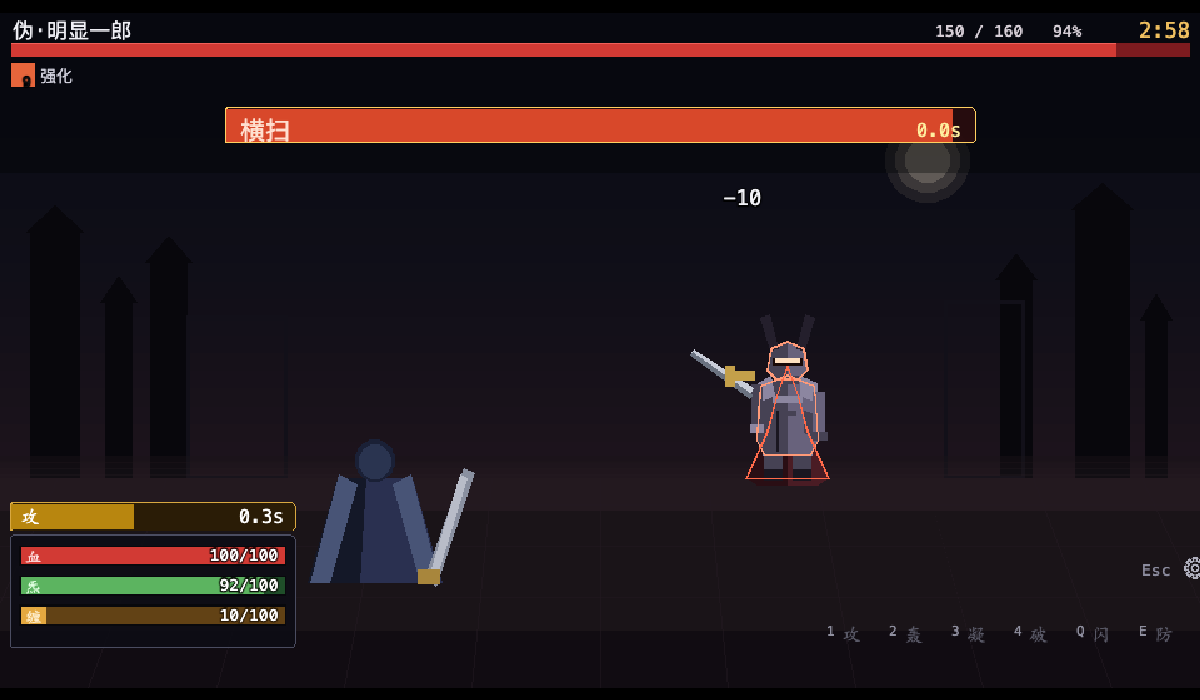
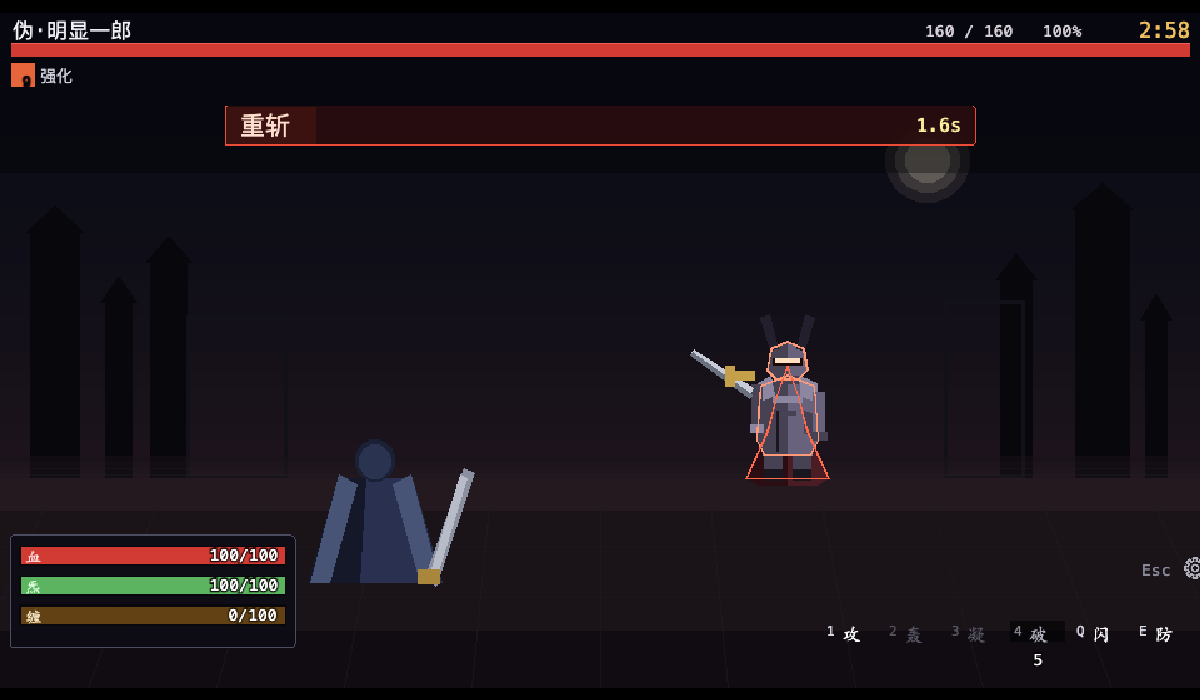
fix: 「闪」恢复打断自己的读条 + 1 秒冷却；修技能 CD 时按键无反馈
【1. 「闪」恢复打断自己的读条（需求）】
  我上两轮给它开了豁免（理由："瞬发自保不该有双重代价"），
  但需求要的是它**必须**打断 —— 读条中按闪避 = 放弃这次输出
  换取生存，这个取舍本身就是玩法。

  代价确实大（一次「攻」≈10 伤 + 30 炁），所以按需求给「闪」加了
  **1 秒冷却**：保留取舍，又不让连按把炁浪费掉。

  冷却值的演进记在 content.ts 里：0 → 1.5s → 0 → **1s**。
  1.5s 时 Boss 每 1.5-2.2 秒一招，闪避总是差一点赶不上（实测只减
  6.5% 伤害，等于技能不存在）；0 时又会因为打断读条而"越闪越亏"。

【2. 技能 CD 时按键那一侧没有反馈（真 bug）】
  `s.key` 的颜色**只在构造时设了一次**（`0x9090a0`），
  之后从没更新过 —— 所以技能冷却时，技能字变灰了，
  但按键提示毫无变化。

  现在键位提示跟技能字用同一套明暗（实测的三档）：
    可用   → 字 #ffffff / 键 #d8d8e4
    冷却中 → 字 #b0b0be / 键 #8a8a98
    不可用 → 字 #5a5a68 / 键 #55555f

【平衡复核】恢复打断 + 加 1s CD 之后目标仍成立：
  不闪避：胜，剩 8 血      会闪避：胜，剩 60 血

468 测试 + lint + typecheck + build + CDP 端到端全过。

diff --git a/tests/golden/encounter.test.ts b/tests/golden/encounter.test.ts
@@ -515,30 +515,35 @@ describe('读条与打断（公共冷却已删除，节奏改由读条表达）'
     expect(engine.snapshot.combatants[0]!.casts[0]!.skillId).toBe('attack');
   });
 
-  it('自保型瞬发（闪）**不打断**自己的读条 —— 否则闪避是双重代价', () => {
+  it('「闪」**会**打断自己的读条 —— 这是"放弃一次输出换生存"的取舍', () => {
     /**
-     * 需求/设计：闪避是"随时可用的应对手段"，代价已经写在 30 炁上。
-     * 如果它还会打断自己在读的「攻」，就等于**用一次输出换一次免伤**，
-     * 算下来反而更亏 —— 实测表现为"按闪避比不闪还差"。
+     * 需求明确：闪避应该打断自己的「攻」。
      *
-     * 修掉之后：纯进攻剩 5 血 → 闪避一次剩 38 血，容错才成立。
+     * 我一度给它开了豁免（理由："瞬发自保不该有双重代价"），
+     * 但需求要的是它**必须**打断 —— 读条中按闪避 = 放弃这次输出
+     * 换取生存，这个取舍本身就是玩法。
      *
-     * 注意「破」是**例外**：它的整个意义就是打断读条，
-     * 所以它仍然会打断（包括自己正在读的条）。
+     * 代价确实很大（一次「攻」≈10 伤 + 30 炁），所以给「闪」
+     * 加了 1 秒冷却，避免连按把炁浪费掉。
      */
     const engine = makeEngine();
     engine.tick([{ type: 'useSkill', skillId: 'attack', atTick: 0 }]);
     engine.drainEvents();
-    const castBefore = engine.snapshot.combatants[0]!.casts[0]!.skillId;
+    expect(engine.snapshot.combatants[0]!.casts.length).toBe(1);
 
     engine.tick([{ type: 'useSkill', skillId: 'dodge', atTick: 1 }]);
     const events = engine.drainEvents();
 
-    // 无敌挂上了
+    // 读条被打断
+    expect(events.some((e) => e.kind === 'castInterrupted')).toBe(true);
+    expect(engine.snapshot.combatants[0]!.casts.length).toBe(0);
+    // 无敌仍然挂上了 —— 打断换来的是生存
     expect(events.some((e) => e.kind === 'buffApplied' && e.buffId === 'dodge-iframe')).toBe(true);
-    // 但「攻」的读条**没有**被打断
-    expect(events.some((e) => e.kind === 'castInterrupted')).toBe(false);
-    expect(engine.snapshot.combatants[0]!.casts[0]?.skillId).toBe(castBefore);
+  });
+
+  it('「闪」有 1 秒冷却（保留取舍，但不让连按浪费炁）', () => {
+    const dodge = registry.skills.get('dodge')!;
+    expect(dodge.cooldown).toBe(1000);
   });
 
   it('「破」仍然会打断自己的读条 —— 它的意义就是打断', () => {

diff --git a/src/core/combat/battleState.ts b/src/core/combat/battleState.ts
@@ -788,26 +788,16 @@ export class BattleEngine {
      * 先 `castInterrupted`、再 `skillRejected`。
      */
     /**
-     * ⚠ **自保型瞬发不打断自己的读条**（「闪」）。
+     * **瞬发技能都会打断自己的读条** —— 包括「闪」（需求明确）。
      *
-     * 理由：闪避是"随时可用的应对手段"，代价已经写在 30 炁上。
-     * 如果它还会打断自己在读的「攻」，就变成**双重代价** ——
-     * 实测表现为"按闪避反而输得更惨"：省下的 24-34 点伤害
-     * 抵不过损失的那一次「攻」。修掉之后闪避才真正是"容错"
-     * （纯进攻剩 5 血 → 闪一次变 38 血）。
+     * 我一度给「闪」开了豁免（"瞬发自保不该有双重代价"），
+     * 但需求要的是它**必须**打断：读条中按闪避 = 放弃这次输出
+     * 换取生存，这个取舍本身就是玩法。
      *
-     * ⚠ **但「破」不能豁免**：它的整个意义就是打断读条
-     * （包括自己在读的条 —— 那是"用一次输出换一次打断"的取舍）。
-     * 我第一版用 `invulnerable` 判定时顺手把它也排除了，
-     * 结果"瞬发技能能打断读条"这条直接失效。
-     *
-     * 所以豁免条件是**两个**都满足：瞬发 + 自保 buff。
+     * ⚠ 代价确实很大（一次「攻」≈10 伤 + 30 炁），所以给「闪」
+     * 加了 **1 秒冷却** —— 既保留"要打断"的取舍，又避免连按浪费。
      */
-    const isSelfProtection = skill.abilities.some(
-      (a) => a.kind === 'grant' && a.buff.flags?.invulnerable === true,
-    );
-    const kind = skill.tags?.includes('interrupt') ? 'interrupt' : 'other';
-    const isDefensiveReaction = isSelfProtection && kind !== 'interrupt';
+    const isDefensiveReaction = false;
     if (gate.ok && actor.casts.length > 0 && !isDefensiveReaction) {
       for (const cast of actor.casts) {
         this.events.push({

diff --git a/src/data/content.ts b/src/data/content.ts
@@ -293,13 +293,17 @@ const DODGE: SkillDef = {
   abilities: [{ kind: 'grant', target: { mode: 'self' }, buff: DODGE_IFRAME }],
   castTime: 0,
   /**
-   * **没有冷却**。代价就是那 40 点缠，不需要再加冷却。
+   * **1 秒冷却**。
    *
-   * 踩过的坑：早期给它加了 1.5 秒冷却，而 Boss 每 1.5–2.2 秒读一次条 ——
-   * 于是它总是差一点点就来不及，实测只减掉 6.5% 的伤害，
-   * 等于这个技能不存在。现在的约束是缠：满缠 100 只能连闪两次。
+   * 演进：0 → 1.5s → 0 → **1s**。
+   *   - 1.5s 时 Boss 每 1.5–2.2 秒一招，闪避总是差一点赶不上，
+   *     实测只减掉 6.5% 的伤害（等于技能不存在）
+   *   - 改成 0 之后，闪避又**会打断自己的「攻」**（一次输出 ≈10 伤），
+   *     代价太大，实测"会闪反而更差"
+   *   - 现在是 1s：保留"读条中闪避 = 放弃这次输出"的取舍，
+   *     同时不让连按把炁浪费掉
    */
-  cooldown: 0,
+  cooldown: logicMs(10),
   /** 瞬发无冷却 —— 否则"该躲时躲不了"。 */
   cost: [{ resource: 'energy', value: S(30) }],
   targeting: { mode: 'self' },

diff --git a/src/render/BattleScene.ts b/src/render/BattleScene.ts
@@ -405,6 +405,21 @@ class SkillBarView {
         view.usable ? 0xffffff : view.cooldownRatio > 0.001 ? 0xb0b0be : 0x5a5a68,
       );
       s.key.set(view.key.toUpperCase());
+      /**
+       * **键位提示也要跟着状态变。**
+       *
+       * 踩过的坑：`s.key` 的颜色只在构造时设了一次（`0x9090a0`），
+       * 之后从没更新 —— 于是技能进冷却时**按键那一侧完全没有反馈**
+       * （需求："现在技能 cd 时，按键那边没有反馈了"）。
+       *
+       * 现在它跟技能字用同一套明暗：
+       *   可用   → 亮（玩家一眼知道这个键现在能按）
+       *   冷却中 → 偏灰
+       *   不可用 → 更暗
+       */
+      s.key.setColor(
+        view.usable ? 0xd8d8e4 : view.cooldownRatio > 0.001 ? 0x8a8a98 : 0x55555f,
+      );
       // 剩余秒数：0.1 秒精度（逻辑步长就是 0.1 秒，再细没意义）
       /**
        * 冷却剩秒**取整**。
